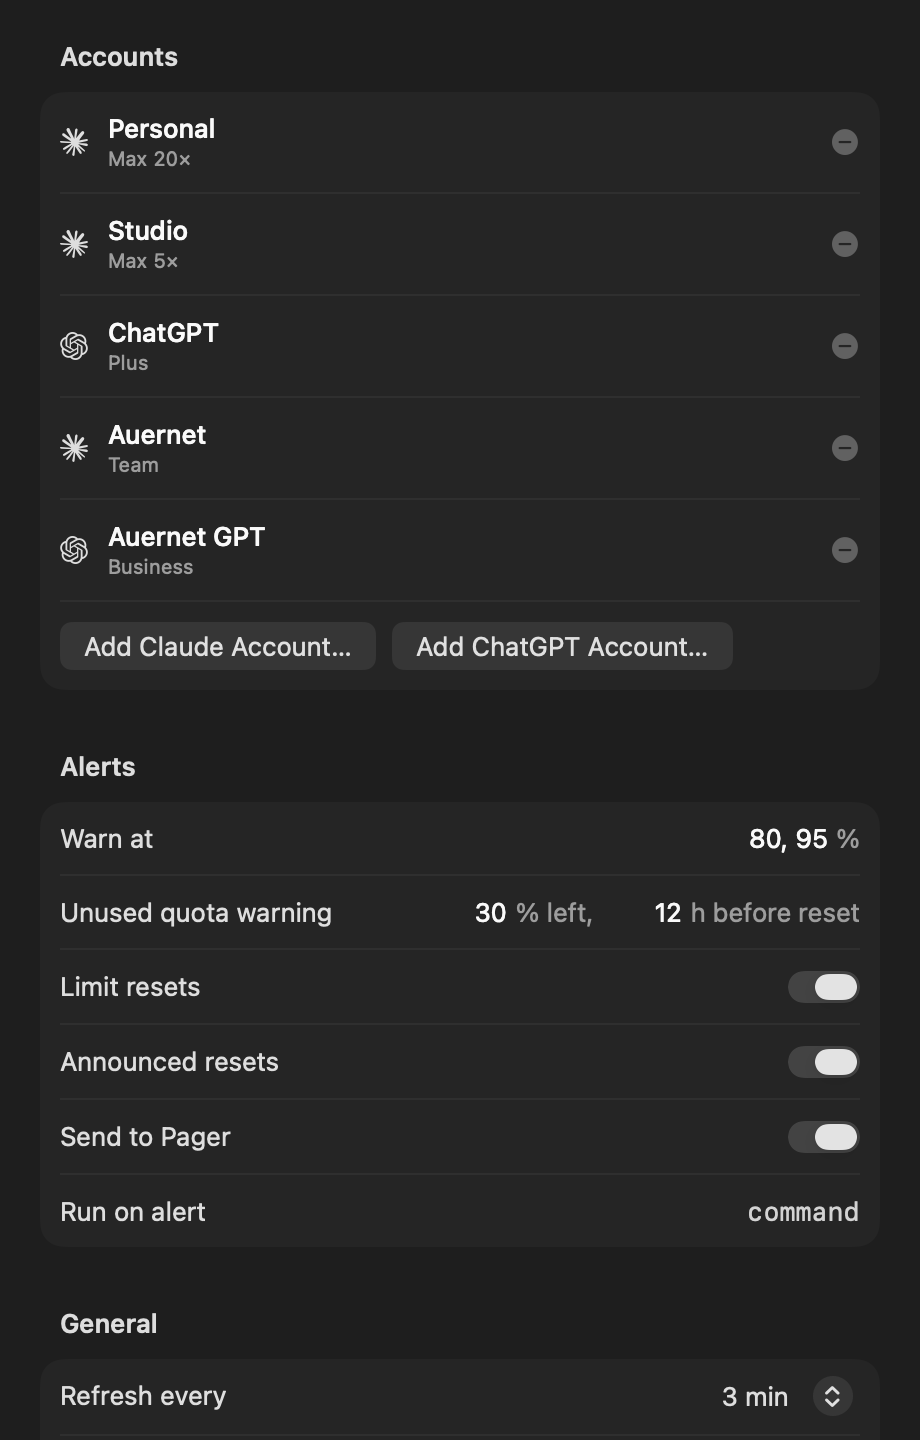
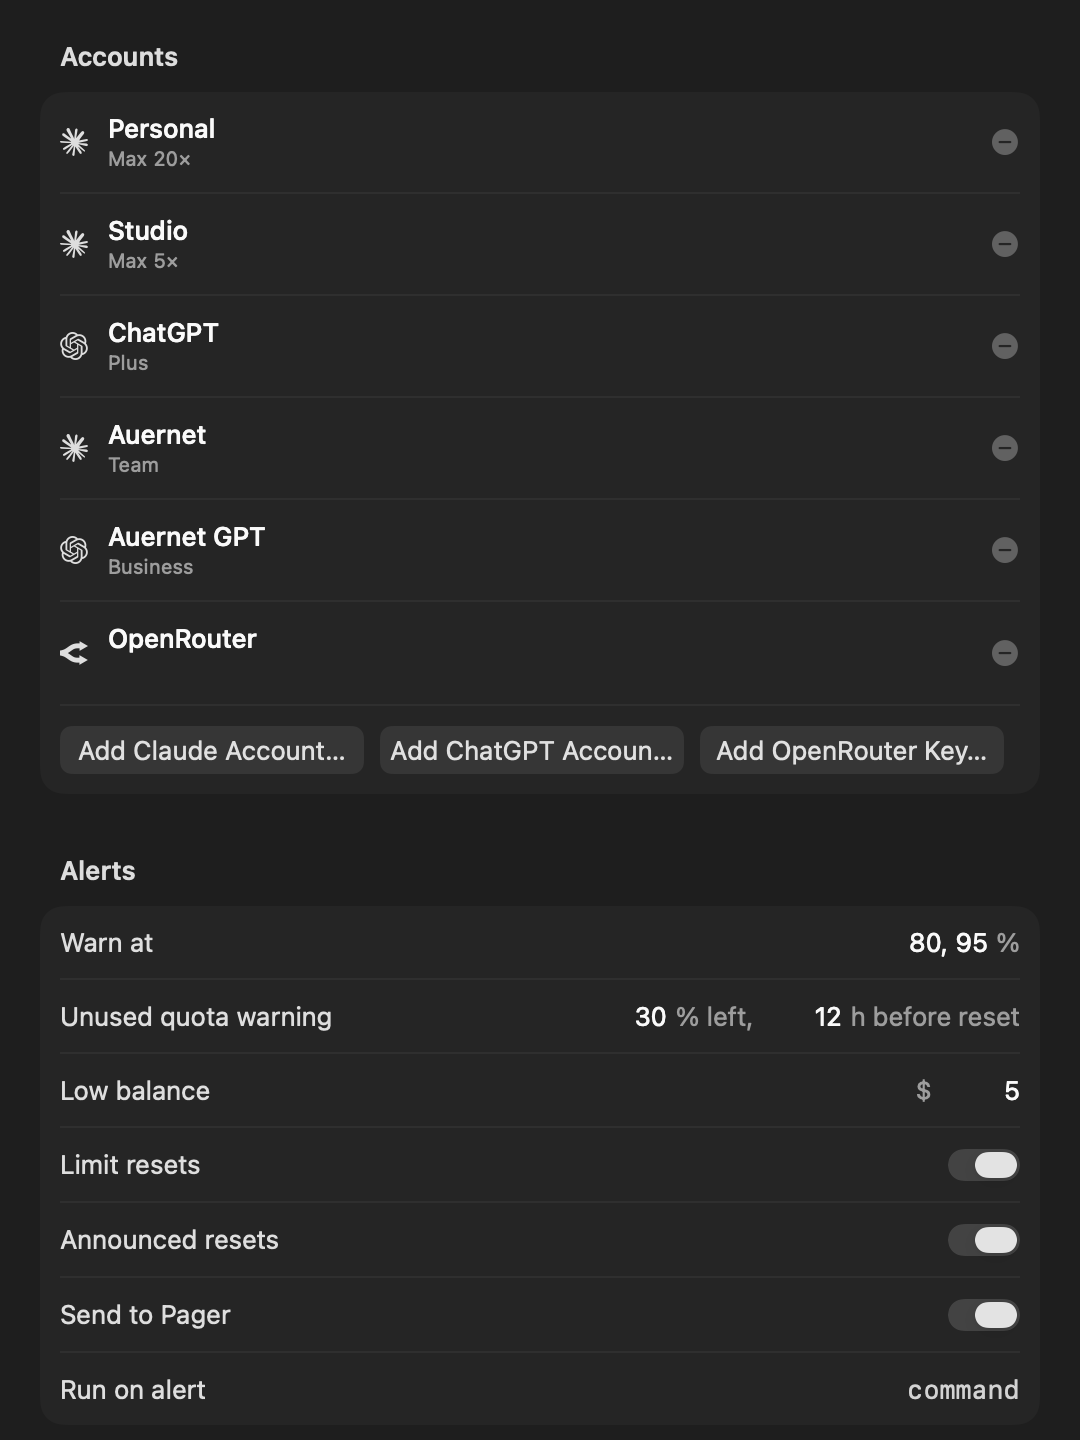
docs: openrouter in readme

diff --git a/README.md b/README.md
@@ -11,7 +11,8 @@ Closed, it's a sliver either side of the camera: one hairline per account on the
 Hover the notch and it opens: every account's 5-hour session and weekly limit, how far through each window you are (the tick), and a countdown to each reset. On a screen without a notch it becomes a small pill in the menu bar.
 
 - **Claude** and **ChatGPT / Codex**, as many accounts of each as you like. Your Claude Code and Codex CLI logins are picked up automatically; add others with a browser sign-in.
-- **Alerts** at thresholds you pick, when unused weekly quota is about to expire, when a limit resets, and when OpenAI or Anthropic announce a reset in public ([resets.albastov.com](https://resets.albastov.com)).
+- **OpenRouter**: credit left and today's spend. A key in `$OPENROUTER_API_KEY` (or `~/.config/secrets/global.env`) is picked up by name, never copied; or add one with **Add OpenRouter Key…** / `brim add openrouter`.
+- **Alerts** at thresholds you pick, when a balance runs low, when unused weekly quota is about to expire, when a limit resets, and when OpenAI or Anthropic announce a reset in public ([resets.albastov.com](https://resets.albastov.com)).
 - **Agent-friendly**: `brim status --json`, plus hooks that get every alert as JSON, so an agent can spend leftover quota or pause heavy work.
 
 ## Install
@@ -28,6 +29,7 @@ make install        # builds, links brim onto your PATH, runs at login
 ```
 brim status [--json] [--fresh]    usage per account
 brim add claude|codex             sign in to another account
+brim add openrouter [--env VAR]   add an OpenRouter key (stdin, or by env var name)
 brim list | rename | remove       manage accounts
 brim alerts                       recent alerts, JSON lines
 brim quit
